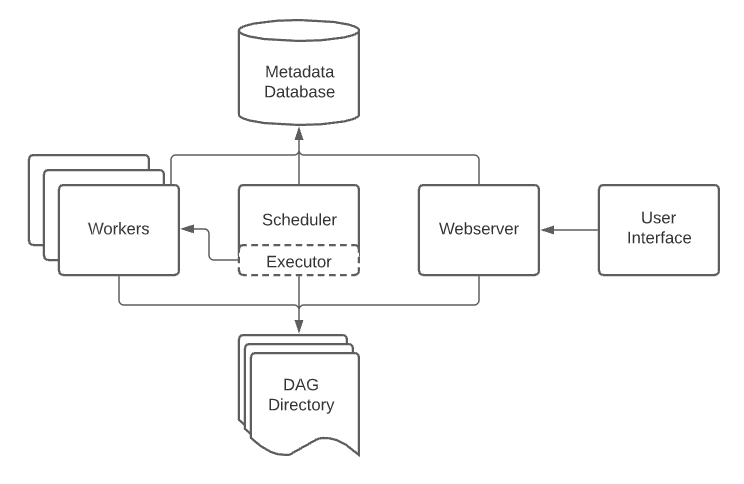
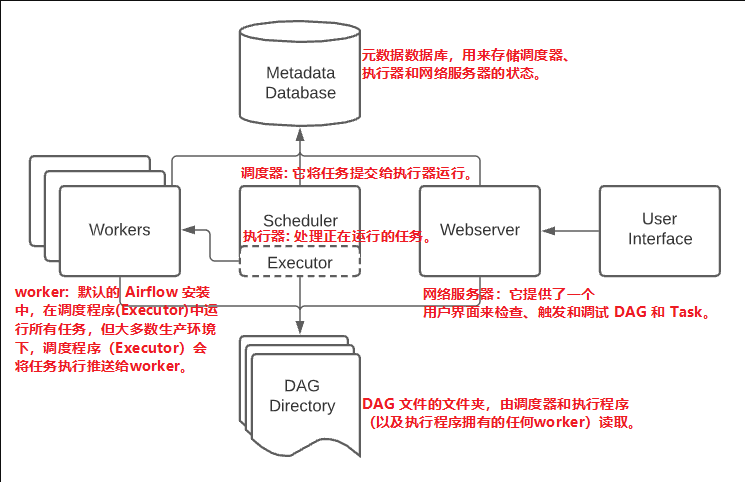
update

diff --git a/airflow/documentation/Concepts/dag.md b/airflow/documentation/Concepts/dag.md
@@ -1,0 +1,113 @@
+# DAGs
+DAG （有向无环图）是 Airflow 的核心概念，将任务收集在一起，按照依赖关系和关系进行组织，以说明它们应该如何运行。DAG 本身并不关心任务内部发生了什么；它只关心如何执行任务, 运行任务的顺序、重试任务的次数、任务是否超时等等。
+
+## 声明 DAG
+可以通过三种方式声明 DAG:
+1. 使用上下文管理器, 将 DAG 隐式添加。
+```
+with DAG(
+    "my_dag_name",
+    start_date=pendulum.datetime(2021, 1, 1, tz="UTC"),
+    schedule_interval="@daily",
+    catchup=False
+) as dag:
+    op = DummyOperator(task_id="task")
+```
+2. 使用标准构造函数，将 dag 传递给您使用的任何 operators。
+```
+my_dag = DAG(
+    "my_dag_name",
+    start_date=pendulum.datetime(2021, 1, 1, tz="UTC"),
+    schedule_interval="@daily",
+    catchup=False
+)
+op = DummyOperator(task_id="task", dag=my_dag)
+```
+3. 使用@dag装饰器将函数转换为 DAG 生成器。
+```
+@dag(
+    tart_date=pendulum.datetime(2021, 1, 1, tz="UTC"),
+    schedule_interval="@daily",
+    catchup=False
+)
+def generate_dag():
+    op = DummyOperator(task_id="task")
+
+dag = generate_dag()
+```
+---
+任务依赖: Task / Operator 通常不会独自存在；它依赖于其他任务（它的上游），而其他任务依赖于它（它的下游）。声明任务之间的这些依赖关系构成了 DAG 结构（有向无环图的边）。
+1. 使用 >> and << 运算符：
+```
+first_task >> [second_task, third_task]
+third_task << fourth_task
+```
+2. 使用更明确的set_upstream和set_downstream方法：
+```
+first_task.set_downstream(second_task, third_task)
+third_task.set_upstream(fourth_task)
+```
+![任务依赖001](./../../image/task001.png)  
+3. 如果你想让两个任务列表相互依赖，你需要使用cross_downstream：
+```
+from airflow.models.baseoperator import cross_downstream
+
+# Replaces
+# [op1, op2] >> op3
+# [op1, op2] >> op4
+cross_downstream([op1, op2], [op3, op4])
+```
+![任务依赖002](./../../image/task002.png)  
+4. 想将依赖链接在一起，你可以使用chain：
+```
+from airflow.models.baseoperator import chain
+
+# Replaces op1 >> op2 >> op3 >> op4
+chain(op1, op2, op3, op4)
+
+# You can also do it dynamically
+chain(*[DummyOperator(task_id='op' + i) for i in range(1, 6)])
+```
+![任务依赖003](./../../image/task003.png)  
+5. Chain 还可以对相同大小的列表进行成对依赖（这与 !所做的交叉依赖cross_downstream不同）：
+```
+from airflow.models.baseoperator import chain
+
+# Replaces
+# op1 >> op2 >> op4 >> op6
+# op1 >> op3 >> op5 >> op6
+chain(op1, [op2, op3], [op4, op5], op6)
+```
+![任务依赖004](./../../image/task004.png)  
+
+## 加载 DAG
+Airflow 从 Python 源文件（DAG_FOLDER）加载 DAG，获取每个文件，执行，然后从该文件加载 DAG 对象。
+* 每个 Python 文件可以定义多个 DAG，甚至可以使用导入将一个非常复杂的 DAG 分布到多个 Python 文件中。
+* 但请注意，当 Airflow 从 Python 文件加载 DAG 时，它只会拉取顶层的对象。
+* 发现 DAG 时，默认会忽略文件中不包含字符串 “DAG” 和 “airflow” 的文件。
+* 您还可以在您的 DAG_FOLDER 或其任何子文件夹中提供一个 .airflowignore 文件，该文件描述加载程序要忽略的文件。
+
+## 运行 DAG
+DAG 将以以下两种方式之一运行：
+* 当它们被手动或通过 API 触发时。
+* 在定义的时间表上。
+
+## DAG 赋值
+## 默认参数
+通常，DAG 中的许多 Operator/Task 需要相同的一组默认参数（例如它们的retries）。不必为每个 Operator/Task 单独指定，您可以在创建 DAG 时将 default_args 传递给 DAG，DAG 会自动将它们应用到与其绑定的任何 Operator/Task。
+
+## DAG 装饰器
+除了使用传统 上下文管理器 或 构造函数 DAG() 声明 DAG 的方式外，您还可以使用 @dag 修饰函数以将其转换为 DAG 生成器。
+* Airflow 只会加载出现在 DAG 文件顶层的 DAG。这意味着您不能只声明一个函数 @dag 您还必须在 DAG 文件中至少调用一次并将其分配给顶级对象，
+
+## 控制流
+默认情况下，DAG 任务只有在它依赖的所有任务都成功时才会运行。但是，有几种修改方法：
+
+## 动态 DAG
+## DAG 可视化
+## DAG 和 TASK 文档
+## SubDAGs
+## TaskGroups vs SubDAGs
+## 打包 DAG
+## .airflowignore
+## DAG 依赖项

diff --git a/airflow/documentation/Concepts/ArchitectureOverview.md b/airflow/documentation/Concepts/ArchitectureOverview.md
@@ -1,0 +1,22 @@
+# 架构
+## 架构概述
+* Airflow 是一个可让您构建和运行工作流程的平台。工作流表示为 DAG（有向无环图），并包含称为任务的各个工作片段，并根据依赖关系和数据流进行排列。
+* DAG 指定任务之间的依赖关系，以及执行它们和运行重试的顺序； 任务本身描述了要做什么，无论是获取数据、运行分析、触发其他系统，还是更多。
+![构架图](../../image/arch-diag-basic.png "构架图")
+* 大多数执行器通常还会引入其他组件，让它们与它们的工作人员交谈——比如任务队列——但你仍然可以将执行器及其工作人员视为整个 Airflow 中的单个逻辑组件，处理实际的任务执行。
+* Airflow 不关心运行的实际内容, 它主要负责编排运行。
+
+## 工作负载
+一个 DAG 贯穿一系列任务，您将看到三种常见的任务类型：
+
+* Operator，预定义的任务，您可以将它们快速串在一起以构建 DAG 的大部分。
+* Sensors 是 Operator 的一个特殊子类，它等待外部事件发生的。
+* @task 修饰的 TaskFlow，它是一个打包为任务的自定义 Python 函数。
+
+在内部，这些实际上都是 Airflow 的 BaseOperator 的子类，Task 和 Operator 的概念在某种程度上可以互换，但将它们视为单独的概念很有用 - 本质上，Operators 和 Sensors 是模板，当您在 DAG 文件中调用它们时 ，它作为一个任务。
+
+## 控制流
+DAG被设计为可以多次运行，并且它们的多次运行可以并行发生。任务具有相互声明的依赖关系。
+
+## 用户界面
+Airflow 附带一个用户界面，可让您查看 DAG 及其任务正在执行的操作、触发 DAG 的运行、查看日志以及对 DAG 进行一些有限的调试和问题解决。

diff --git a/airflow/documentation/Concepts/Concepts.md b/airflow/documentation/Concepts/Concepts.md
@@ -1,0 +1,92 @@
+# 架构 ArchitectureOverview.md
+## 架构概述
+* 工作负载
+* 控制流
+* 用户界面
+
+# 工作负载 dag.md
+## DAGs
+* 声明 DAG
+* 加载 DAG
+* 运行 DAG
+* DAG 赋值
+* 默认参数
+* DAG 装饰器
+* 控制流
+* 动态 DAG
+* DAG 可视化
+* DAG 和 TASK 文档
+* SubDAGs
+* TaskGroups vs SubDAGs
+* 打包 DAG
+* .airflowignore
+* DAG 依赖项
+
+## 任务
+* 关系
+* 任务实例
+* 超时
+* 服务水平协议
+* 特别例外
+* 僵尸/亡灵任务
+* 执行器配置
+
+## Operators(操作员)
+* Jinja 模板
+* 保留参数关键字
+
+## Sensors
+
+## 可延迟的 Operators(操作员) 和 Triggers(触发器)
+* 使用可延迟 Operators
+* 编写可延迟的 Operators
+* 高可用性
+* 智能传感器
+
+## 智能传感器
+* 启用/禁用智能传感器
+* 在智能传感器服务中支持新的 Operators
+* 迁移到可延迟 Operators
+
+## 任务流
+* 历史
+
+## Executor(执行者)
+* Executor(执行者) 类型
+
+## 调度器
+* DAG 文件处理
+* 使用未来日期触发 DAG
+* 运行多个调度程序
+* 微调您的调度程序性能
+
+## Pools
+* 使用多个池槽
+
+## Timetables(时刻表)
+
+## 优先权重
+
+## 集群策略
+* 例子
+* 任务政策
+* 任务实例突变
+
+# 沟通
+## Xcoms
+* 自定义 XCom 后端
+* 在容器中使用自定义 XCom 后端
+* 通过 Helm 在 K8s 中使用自定义后端
+
+## Variables(变量)
+
+## 连接和挂钩
+* 挂钩
+* 自定义连接
+
+## 参数
+* 将参数添加到 DAG
+* 在任务中引用参数
+* 任务级参数
+* JSON 模式验证
+* 禁用运行时参数修改

diff --git a/tool/vscode/UserGuide/CodeNavigation.md b/tool/vscode/UserGuide/CodeNavigation.md
@@ -1,0 +1,46 @@
+
+# 代码导航
+## 快速文件导航
+* Ctrl + P
+* 按住 Ctrl 键并按 Tab 键可查看在编辑器组中打开的所有文件的列表。
+* 使用 Alt+Left 和 Alt+Right 在文件和编辑位置之间导航。
+
+## 面包屑
+编辑器在其内容上方有一个导航栏，称为 Breadcrumbs。 它显示当前位置并允许您在文件夹、文件和符号之间快速导航。
+* 面包屑定制
+* 面包屑中的符号顺序
+* 面包屑键盘导航
+  * Ctrl+Shift+.
+  * Ctrl+Shift+;
+
+## 转到定义
+* F12
+* press Ctrl and hover over
+* Ctrl+Click
+* Ctrl+Alt+Click
+
+## 转到类型定义
+## 转到实现
+* Ctrl+F12
+
+## 转到符号
+* Ctrl+Shift+O
+
+## 按名称打开符号
+* Ctrl+T
+
+## 窥视
+* Shift+F12
+* Alt+F12
+
+## 括号匹配
+一旦光标靠近其中一个，匹配的括号就会突出显示。您可以使用 Ctrl+Shift+\ 跳转到匹配的括号。
+
+## 参考信息
+## 重命名符号
+## 错误和警告
+* press F8 or Shift+F8
+
+## 代码动作
+## 镶嵌提示
+## 传出链路保护

diff --git a/airflow/documentation/documentation.md b/airflow/documentation/documentation.md
@@ -39,5 +39,11 @@ Version: 2.2.5
 ## How-to Guides
 这些操作指南将引导您完成使用和配置 Airflow 环境的常见任务。
 
+## UI / Screenshots
+Airflow UI 可让您轻松监控数据管道并对其进行故障排除。 -> UI_Screenshots.md
+
+## Concepts
+在这里，您可以找到有关 Airflow 的每个核心概念及其使用方法的详细文档，以及高级架构概述。 -> Concepts
+
 ## Time Zones
 Time_Zones.md

diff --git a/tool/vscode/UserGuide/IntelliSense.md b/tool/vscode/UserGuide/IntelliSense.md
@@ -1,0 +1,8 @@
+# 智能感知
+IntelliSense 是各种代码编辑功能的总称，包括：代码完成、参数信息、快速信息和成员列表。
+
+## 适用于您的编程语言的 IntelliSense
+## 智能感知功能
+## 完成类型
+## 自定义智能感知
+## 故障排除

diff --git a/tool/vscode/UserGuide/user_guide.md b/tool/vscode/UserGuide/user_guide.md
@@ -5,8 +5,11 @@
 ## 扩展市场
 * ExtensionMarketplace.md
 
-智能感知
-代码导航
+## 智能感知
+* IntelliSense.md
+
+## 代码导航
+* CodeNavigation.md
 重构
 调试
 网页版 VS 代码
